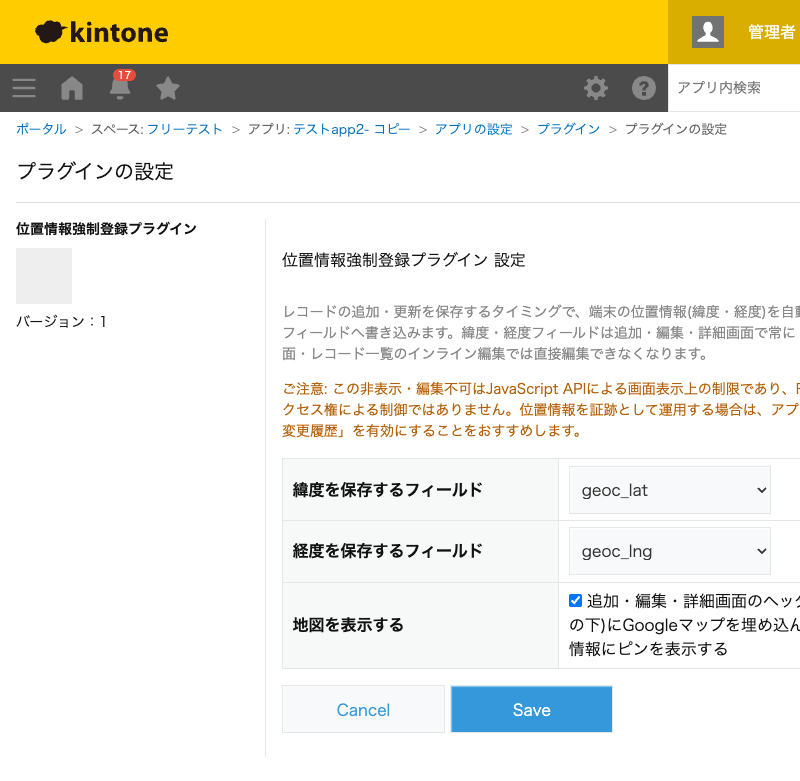
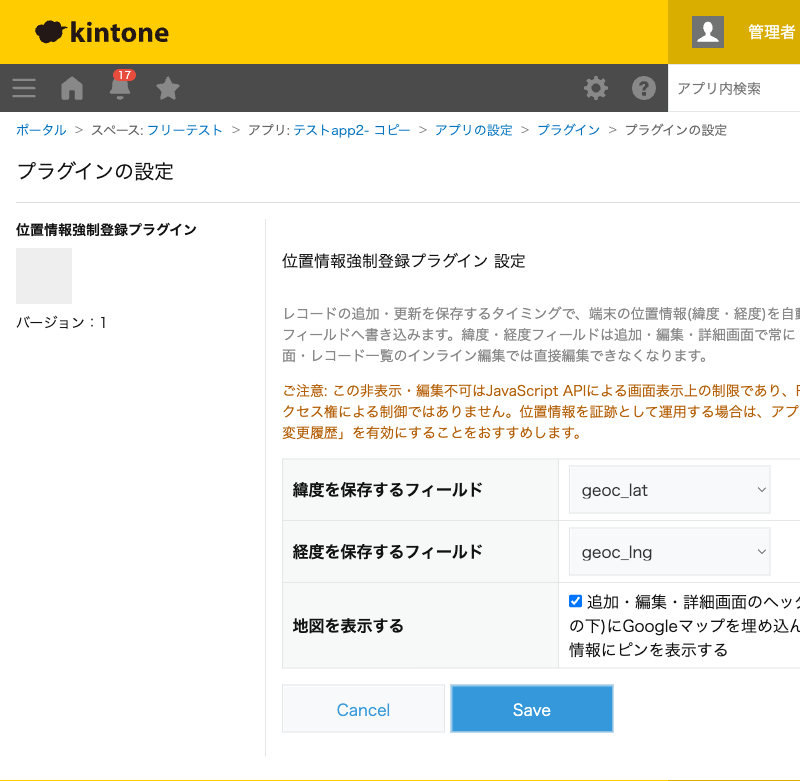
geo_checkin: auto-retry transient geolocation failures
POSITION_UNAVAILABLE (e.g. macOS kCLErrorLocationUnknown) and TIMEOUT
are retried up to 3 times with a 1s delay before giving up; PERMISSION_DENIED
and unsupported-browser errors fail fast since retrying can't help. Same
behavior on PC and mobile.

diff --git a/geo_checkin/src/__tests__/geo-retry.test.js b/geo_checkin/src/__tests__/geo-retry.test.js
@@ -1,0 +1,90 @@
+'use strict';
+
+const { withGeoRetry, isRetryableGeoError } = require('../js/lib/geo-retry');
+
+describe('isRetryableGeoError', () => {
+  test('POSITION_UNAVAILABLE(code: 2)はリトライ対象', () => {
+    expect(isRetryableGeoError({ code: 2 })).toBe(true);
+  });
+
+  test('TIMEOUT(code: 3)はリトライ対象', () => {
+    expect(isRetryableGeoError({ code: 3 })).toBe(true);
+  });
+
+  test('PERMISSION_DENIED(code: 1)はリトライ対象外(許可設定が変わらない限り再試行しても無駄なため)', () => {
+    expect(isRetryableGeoError({ code: 1 })).toBe(false);
+  });
+
+  test('Geolocation非対応ブラウザのError(codeなし)はリトライ対象外', () => {
+    expect(isRetryableGeoError(new Error('non-code error'))).toBe(false);
+  });
+
+  test('null/undefinedはリトライ対象外', () => {
+    expect(isRetryableGeoError(null)).toBe(false);
+    expect(isRetryableGeoError(undefined)).toBe(false);
+  });
+});
+
+describe('withGeoRetry', () => {
+  const noopSleep = () => Promise.resolve();
+
+  test('1回目で成功すればsleepは呼ばれない', async () => {
+    const getPosition = jest.fn().mockResolvedValue('ok');
+    const sleep = jest.fn(noopSleep);
+    await expect(
+      withGeoRetry(getPosition, { maxAttempts: 3, delayMs: 1000, sleep }),
+    ).resolves.toBe('ok');
+    expect(getPosition).toHaveBeenCalledTimes(1);
+    expect(sleep).not.toHaveBeenCalled();
+  });
+
+  test('POSITION_UNAVAILABLEで失敗後、リトライして成功する', async () => {
+    const getPosition = jest
+      .fn()
+      .mockRejectedValueOnce({ code: 2 })
+      .mockResolvedValueOnce('ok-on-second');
+    const sleep = jest.fn(noopSleep);
+    await expect(
+      withGeoRetry(getPosition, { maxAttempts: 3, delayMs: 1000, sleep }),
+    ).resolves.toBe('ok-on-second');
+    expect(getPosition).toHaveBeenCalledTimes(2);
+    expect(sleep).toHaveBeenCalledTimes(1);
+    expect(sleep).toHaveBeenCalledWith(1000);
+  });
+
+  test('maxAttempts回失敗し続けると、最後のエラーをそのままthrowする', async () => {
+    const finalError = { code: 3 };
+    const getPosition = jest
+      .fn()
+      .mockRejectedValueOnce({ code: 2 })
+      .mockRejectedValueOnce({ code: 3 })
+      .mockRejectedValueOnce(finalError);
+    const sleep = jest.fn(noopSleep);
+    await expect(
+      withGeoRetry(getPosition, { maxAttempts: 3, delayMs: 1000, sleep }),
+    ).rejects.toBe(finalError);
+    expect(getPosition).toHaveBeenCalledTimes(3);
+    expect(sleep).toHaveBeenCalledTimes(2);
+  });
+
+  test('PERMISSION_DENIEDは1回失敗した時点で即座に伝播し、リトライしない', async () => {
+    const permissionError = { code: 1 };
+    const getPosition = jest.fn().mockRejectedValue(permissionError);
+    const sleep = jest.fn(noopSleep);
+    await expect(
+      withGeoRetry(getPosition, { maxAttempts: 3, delayMs: 1000, sleep }),
+    ).rejects.toBe(permissionError);
+    expect(getPosition).toHaveBeenCalledTimes(1);
+    expect(sleep).not.toHaveBeenCalled();
+  });
+
+  test('Geolocation非対応ブラウザのErrorも即座に伝播する', async () => {
+    const unsupportedError = new Error('non-code error');
+    const getPosition = jest.fn().mockRejectedValue(unsupportedError);
+    const sleep = jest.fn(noopSleep);
+    await expect(
+      withGeoRetry(getPosition, { maxAttempts: 3, delayMs: 1000, sleep }),
+    ).rejects.toBe(unsupportedError);
+    expect(getPosition).toHaveBeenCalledTimes(1);
+  });
+});

diff --git a/site/plugins/geo_checkin/index.html b/site/plugins/geo_checkin/index.html
@@ -119,7 +119,7 @@
         <li>位置情報の取得はブラウザ標準のGeolocation APIのみで行い、kintoneへのREST通信は一切発生しません。地図表示もAPIキー不要の公開埋め込みURLをiframeに設定するだけで、外部への<code>fetch</code>/<code>XMLHttpRequest</code>通信は一切行いません。外部ライブラリも使用していません。</li>
         <li>地図の埋め込みURLは、緯度・経度フィールドの値をそのまま連結せず、数値として解釈できて有効範囲内(緯度-90〜90・経度-180〜180)であることを確認したうえで組み立てており、任意の文字列がURLに混入する余地をコード上排除しています。</li>
         <li>設定画面のフィールド一覧・エラーメッセージの描画は<code>innerHTML</code>ではなく<code>textContent</code>のみを使用しており、DOMへ構造として解釈されません。</li>
-        <li>位置情報の取得に失敗しても登録・更新自体は継続する設計です(証跡が取れない場合でも業務を止めないための仕様上の判断)。取得失敗はアラートで必ず利用者に通知したうえで、緯度・経度フィールドは空のまま保存されます。</li>
+        <li>位置情報の取得が一時的に失敗しても(電波状況等)、最大3回まで自動的に再試行してから諦めます。それでも取得に失敗した場合はレコードの登録・更新自体を継続する設計です(証跡が取れない場合でも業務を止めないための仕様上の判断)。取得失敗はアラートで必ず利用者に通知したうえで、緯度・経度フィールドは空のまま保存されます。</li>
         <li>緯度・経度フィールドの非表示化・編集不可化はJavaScript APIによるUIレベルの制御であり、「不正な書き換えを技術的に防ぐ」機能ではありません。証跡として運用する場合はアプリの変更履歴(リビジョン)を有効にすることを設定画面上で案内しています。</li>
       </ul>
       <p>詳細な確認項目・確認日は下記GitHubのチェックリストに全項目を掲載しています。</p>

diff --git a/geo_checkin/src/js/lib/geo-retry.js b/geo_checkin/src/js/lib/geo-retry.js
@@ -1,0 +1,44 @@
+(function (root) {
+  'use strict';
+
+  // GeolocationPositionError.code(Web標準)のうち、再試行して成功する見込みがあるものだけ
+  // リトライ対象とする。PERMISSION_DENIED(1)は同じ保存操作の中で許可状態が変わることはないため
+  // 再試行しても無駄であり、Geolocation非対応ブラウザのError(codeなし)も再試行の余地が無い。
+  // POSITION_UNAVAILABLE(2、macOSのkCLErrorLocationUnknown等、位置情報プロバイダー側の一時的な
+  // 解決失敗を含む)とTIMEOUT(3)は、少し待って再試行すると成功することが多い。
+  const POSITION_UNAVAILABLE = 2;
+  const TIMEOUT = 3;
+
+  const isRetryableGeoError = (error) => {
+    const code = error && error.code;
+    return code === POSITION_UNAVAILABLE || code === TIMEOUT;
+  };
+
+  // getPosition()(navigator.geolocation.getCurrentPosition()をPromise化したもの)を、
+  // リトライ対象のエラーに限り最大maxAttempts回まで(delayMsずつ間隔を空けて)試行する。
+  // sleep()を注入することで、実際のタイマーを使わずにJestで確定的にテストできる
+  // (fiscal_year_numberingのjs/lib/retry.jsと同じ設計)。
+  const withGeoRetry = async (getPosition, { maxAttempts, delayMs, sleep }) => {
+    let attempt = 0;
+    for (;;) {
+      attempt += 1;
+      try {
+        return await getPosition();
+      } catch (err) {
+        if (!isRetryableGeoError(err) || attempt >= maxAttempts) {
+          throw err;
+        }
+        await sleep(delayMs);
+      }
+    }
+  };
+
+  const GeoRetry = { withGeoRetry, isRetryableGeoError };
+
+  if (typeof module !== 'undefined' && module.exports) {
+    module.exports = GeoRetry;
+  } else {
+    root.GeoCheckin = root.GeoCheckin || {};
+    root.GeoCheckin.GeoRetry = GeoRetry;
+  }
+})(typeof window !== 'undefined' ? window : globalThis);

diff --git a/geo_checkin/src/js/desktop.js b/geo_checkin/src/js/desktop.js
@@ -27,6 +27,18 @@
       );
     });
 
+  // POSITION_UNAVAILABLE(macOSのkCLErrorLocationUnknown等、位置情報プロバイダー側の一時的な
+  // 解決失敗を含む)・TIMEOUTは、少し待って再試行すると成功することが多いため自動リトライする
+  // (js/lib/geo-retry.js参照)。PERMISSION_DENIEDや非対応ブラウザは再試行しても無駄なので
+  // 1回で諦める。
+  const RETRY_OPTIONS = {
+    maxAttempts: 3,
+    delayMs: 1000,
+    sleep: (ms) => new Promise((resolve) => setTimeout(resolve, ms)),
+  };
+  const getCurrentPositionWithRetry = () =>
+    NS.GeoRetry.withGeoRetry(getCurrentPosition, RETRY_OPTIONS);
+
   const isConfigured = () =>
     !!(config.latitudeFieldCode && config.longitudeFieldCode);
 
@@ -138,7 +150,7 @@
         return event;
       }
       try {
-        const position = await getCurrentPosition();
+        const position = await getCurrentPositionWithRetry();
         const latField = event.record[config.latitudeFieldCode];
         const lngField = event.record[config.longitudeFieldCode];
         if (latField) {

diff --git a/geo_checkin/src/js/mobile.js b/geo_checkin/src/js/mobile.js
@@ -25,6 +25,15 @@
       );
     });
 
+  // desktop.jsと同じ自動リトライ(js/lib/geo-retry.js参照)。
+  const RETRY_OPTIONS = {
+    maxAttempts: 3,
+    delayMs: 1000,
+    sleep: (ms) => new Promise((resolve) => setTimeout(resolve, ms)),
+  };
+  const getCurrentPositionWithRetry = () =>
+    NS.GeoRetry.withGeoRetry(getCurrentPosition, RETRY_OPTIONS);
+
   const isConfigured = () =>
     !!(config.latitudeFieldCode && config.longitudeFieldCode);
 
@@ -130,7 +139,7 @@
         return event;
       }
       try {
-        const position = await getCurrentPosition();
+        const position = await getCurrentPositionWithRetry();
         const latField = event.record[config.latitudeFieldCode];
         const lngField = event.record[config.longitudeFieldCode];
         if (latField) {

diff --git a/geo_checkin/idea.md b/geo_checkin/idea.md
@@ -27,11 +27,18 @@
   `enableHighAccuracy: true`・`maximumAge: 0`(キャッシュされた古い位置情報を使わず、常に
   その場で取得する。「保存の瞬間の証跡」という目的上、追加・編集どちらの保存でも都度フレッシュに
   取得し、既存の緯度・経度を保存の都度上書きする)。
-- **取得に失敗してもレコードの登録・更新は継続する(`event.error`は設定しない)。** 緯度・経度は
-  空のまま保存され、`alert()`で利用者にエラー内容を通知する(`js/lib/geo-error-message.js`が
-  `GeolocationPositionError.code`に応じた日本語メッセージを組み立てる: 1=許可されなかった、
-  2=取得不可、3=タイムアウト、その他=汎用メッセージ)。`alert()`は同期的にブロックするため、
-  保存処理(kintoneへの実際の登録・更新)が先に進む前に必ず利用者に通知できる。
+- **`GeolocationPositionError.code`が`POSITION_UNAVAILABLE`(2)・`TIMEOUT`(3)の場合は、最大3回まで
+  (1秒間隔で)自動的に再試行する(`js/lib/geo-retry.js`の`withGeoRetry()`)。** macOSの
+  CoreLocationフレームワークが一時的に位置情報を解決できない(`kCLErrorLocationUnknown`)場合など、
+  一度失敗してもすぐ次の試行で成功することが多いための対応。`PERMISSION_DENIED`(1、位置情報の
+  利用が許可されなかった場合)と、Geolocation非対応ブラウザのエラー(codeなし)は、同じ保存操作の
+  中で状況が変わることはないため再試行せず即座に諦める。
+- **すべての再試行を使い切っても取得に失敗した場合、レコードの登録・更新は継続する(`event.error`は
+  設定しない)。** 緯度・経度は空のまま保存され、`alert()`で利用者にエラー内容を通知する
+  (`js/lib/geo-error-message.js`が`GeolocationPositionError.code`に応じた日本語メッセージを
+  組み立てる: 1=許可されなかった、2=取得不可、3=タイムアウト、その他=汎用メッセージ)。
+  `alert()`は同期的にブロックするため、保存処理(kintoneへの実際の登録・更新)が先に進む前に
+  必ず利用者に通知できる。
 - 緯度・経度フィールドの値は`String(position.coords.latitude)`/`String(position.coords.longitude)`
   として書き込む(数値フィールドは文字列表現の数値を受け付ける、kintoneドキュメントMCP
   「数値フィールド」参照)。
@@ -90,6 +97,9 @@
 - `config-validation.js` — 設定(緯度・経度フィールド・地図表示)のバリデーション
 - `geo-error-message.js` — `GeolocationPositionError`(またはGeolocation非対応時の`Error`)から
   利用者向け日本語メッセージを組み立てる
+- `geo-retry.js` — `POSITION_UNAVAILABLE`/`TIMEOUT`のみを対象に、注入した`sleep()`で実際の
+  タイマーを使わず確定的に自動リトライのオーケストレーションをテストする
+  (`PERMISSION_DENIED`・非対応ブラウザは1回で即座に諦めることも検証)
 - `map-embed-url.js` — 緯度・経度からGoogleマップの埋め込みURLを組み立てる(範囲外・非数値は
   `null`を返す)
 

diff --git a/geo_checkin/security-checklist.md b/geo_checkin/security-checklist.md
@@ -2,7 +2,7 @@
 
 [secureCodingGuideline.md](../secureCodingGuideline.md)の一般項目([box_gdrive_iframe/security-checklist.md](../box_gdrive_iframe/security-checklist.md)参照、UTF-8/BOMなし・名前空間分離・`'use strict'`・外部スクリプト不使用などは同様に満たしている)は重複記載を省略し、本プラグイン固有の項目のみ記載する。
 
-最終確認日: 2026-08-26(モバイル対応の追加を反映)
+最終確認日: 2026-08-26(モバイル対応・位置情報取得の自動リトライの追加を反映)
 
 ## コーディング作法
 
@@ -35,6 +35,7 @@
 
 - [x] Geolocation APIの取得に失敗しても`event.error`は設定せず、レコードの登録・更新自体は継続する(緯度・経度は空のまま保存される)。「証跡が取れない場合でも業務(出退勤の打刻等)自体は止めない」という利用者向けの仕様上の判断であり、`alert()`(同期的にブロックする)で保存前に必ず利用者へ通知する
 - [x] `navigator.geolocation`が存在しないブラウザでも例外にせず、`GeolocationPositionError`と同様にエラーメッセージへ変換して`alert()`する(`js/lib/geo-error-message.js`)
+- [x] `POSITION_UNAVAILABLE`・`TIMEOUT`は最大3回まで自動リトライする(`js/lib/geo-retry.js`)。無限リトライではなく上限を設けているため、位置情報が恒常的に取得できない環境で保存処理が完了しなくなることはない。`PERMISSION_DENIED`・非対応ブラウザはリトライ対象から明示的に除外しており、無駄な待機時間を発生させない
 
 ## 表示・編集の制限(セキュリティというより運用上の注意)
 
